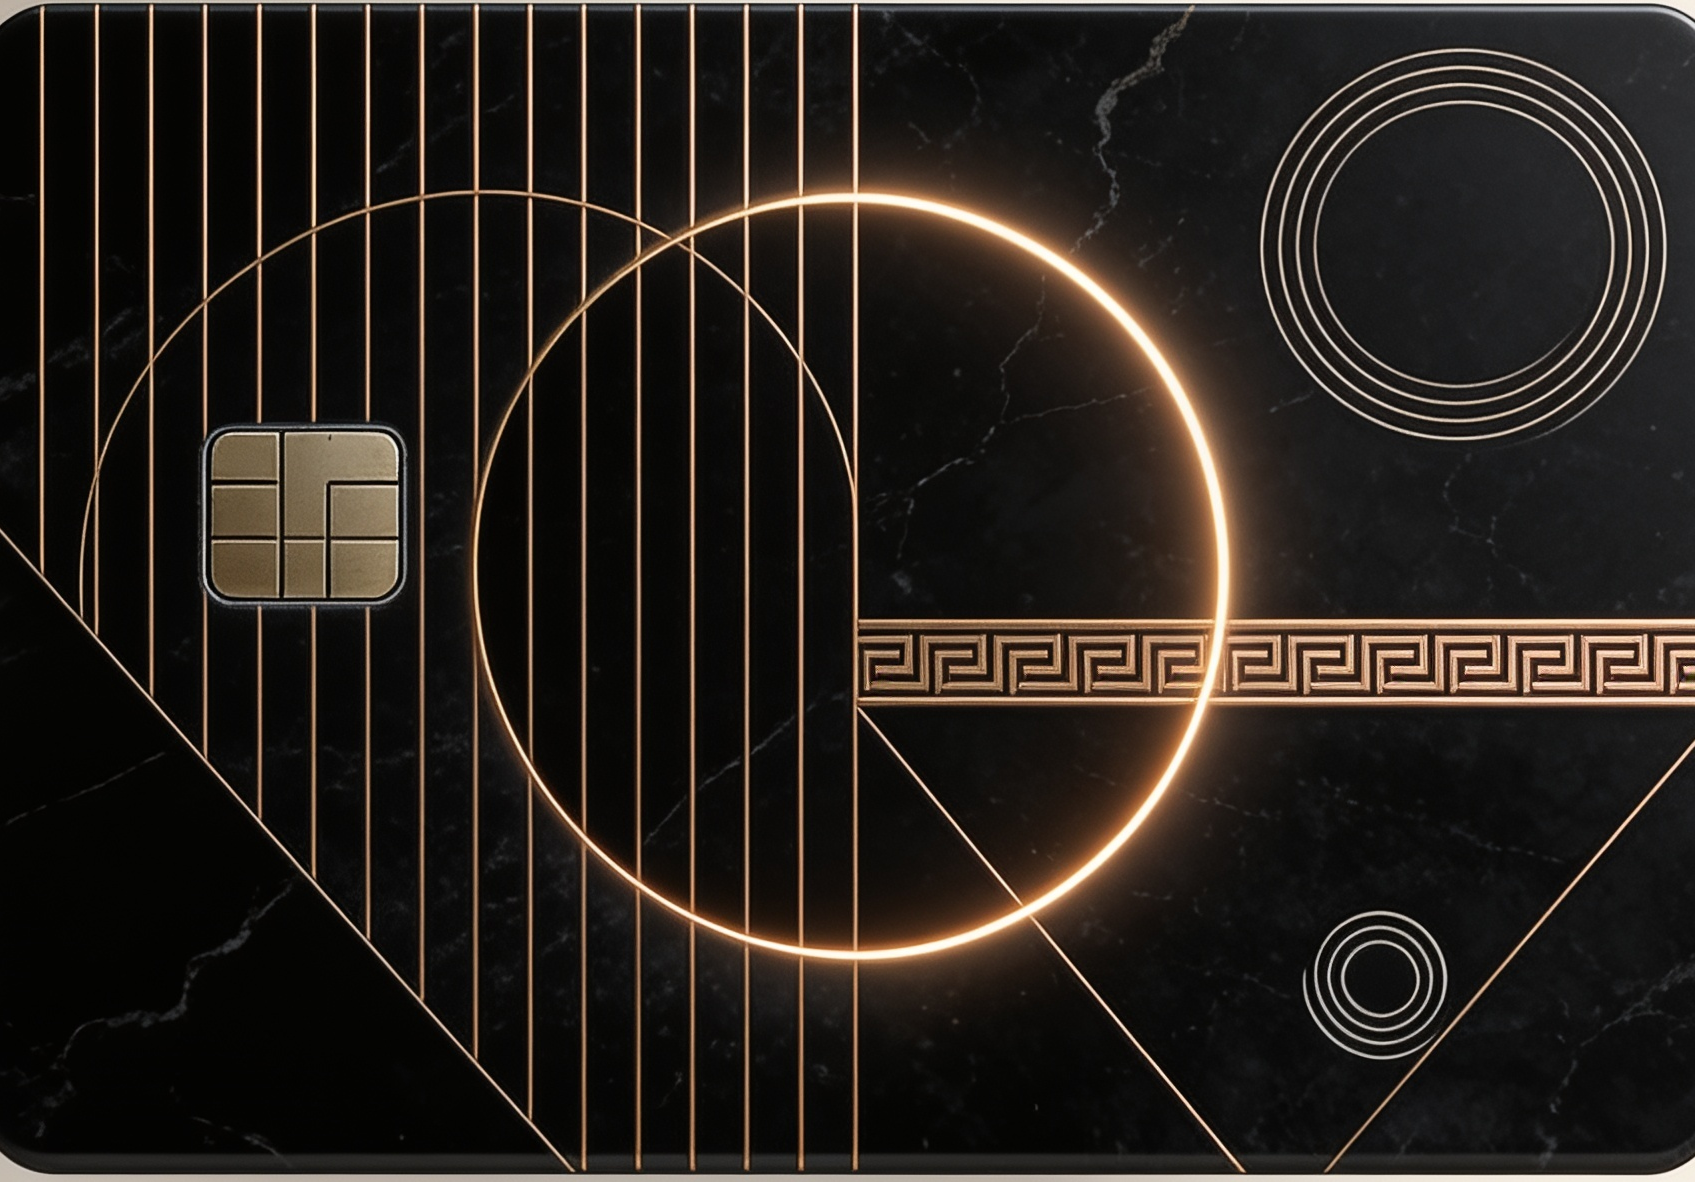
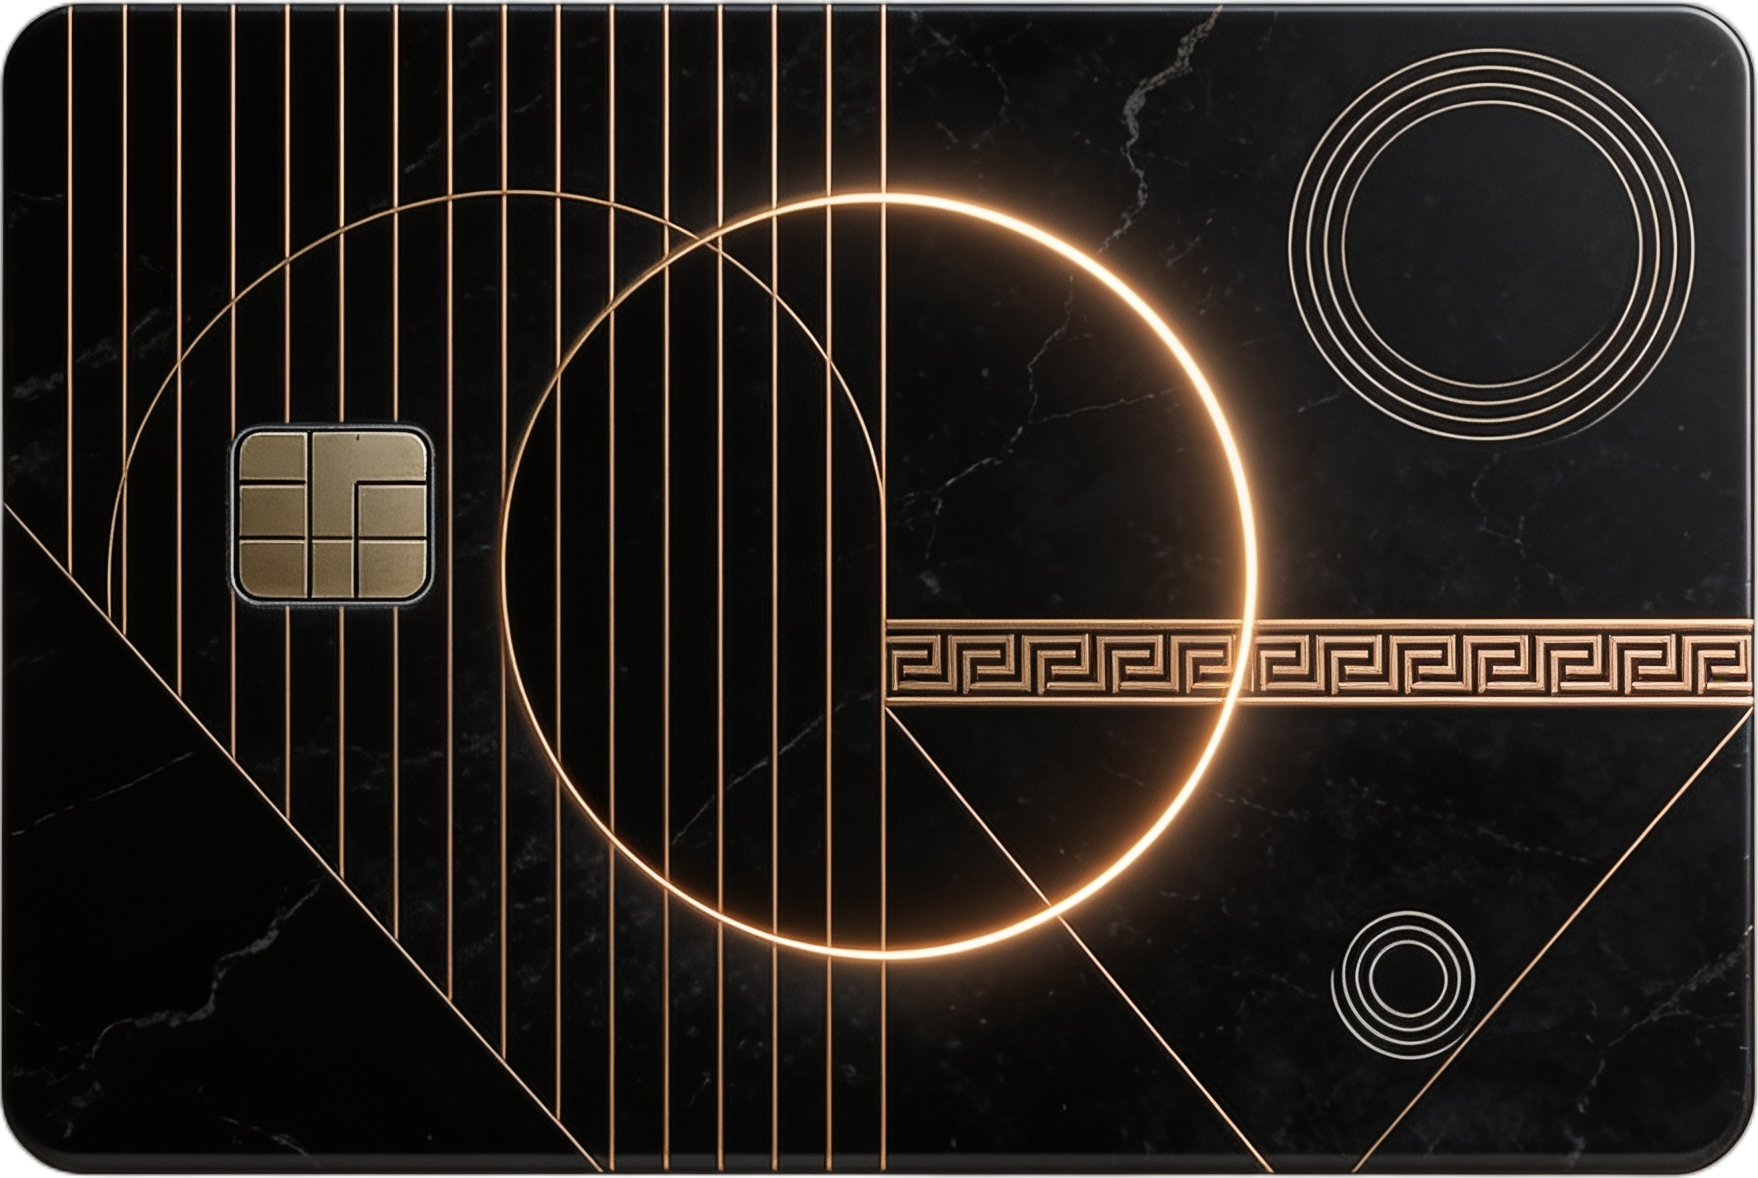
Background-remove the generated card faces for a clean frame fit
Run the onyx + ivory mockups through fal BiRefNet, alpha-trim to the tight card
bounds, and render printed faces with background-size: contain over a matching
fill so the isolated card (with its own rounded corners) sits flush in the card
frame — no beige surround or product-shot shadow.

diff --git a/app/src/money/CardArt.tsx b/app/src/money/CardArt.tsx
@@ -210,6 +210,9 @@ export function CardArt({
   // the synthetic chrome and keep only a quiet cardholder footer.
   const printed = art.kind === "image" && art.printed === true;
   const lightInk = art.kind !== "template" ? hexLuma(art.ink) > 140 : true;
+  // Fill behind a transparent (background-removed) printed face so its rounded
+  // corners + any letterbox blend seamlessly with the card body.
+  const faceBg = printed ? (lightInk ? "#0f0b07" : "#f4efe6") : undefined;
   const imgShadow =
     art.kind === "image"
       ? lightInk
@@ -219,7 +222,9 @@ export function CardArt({
 
   const background =
     art.kind === "image"
-      ? `url(${art.src}) center/cover no-repeat`
+      ? printed
+        ? `url(${art.src}) center/contain no-repeat ${faceBg}`
+        : `url(${art.src}) center/cover no-repeat`
       : art.kind === "eclipse"
         ? ECLIPSE_BG[art.mode]
         : art.background;